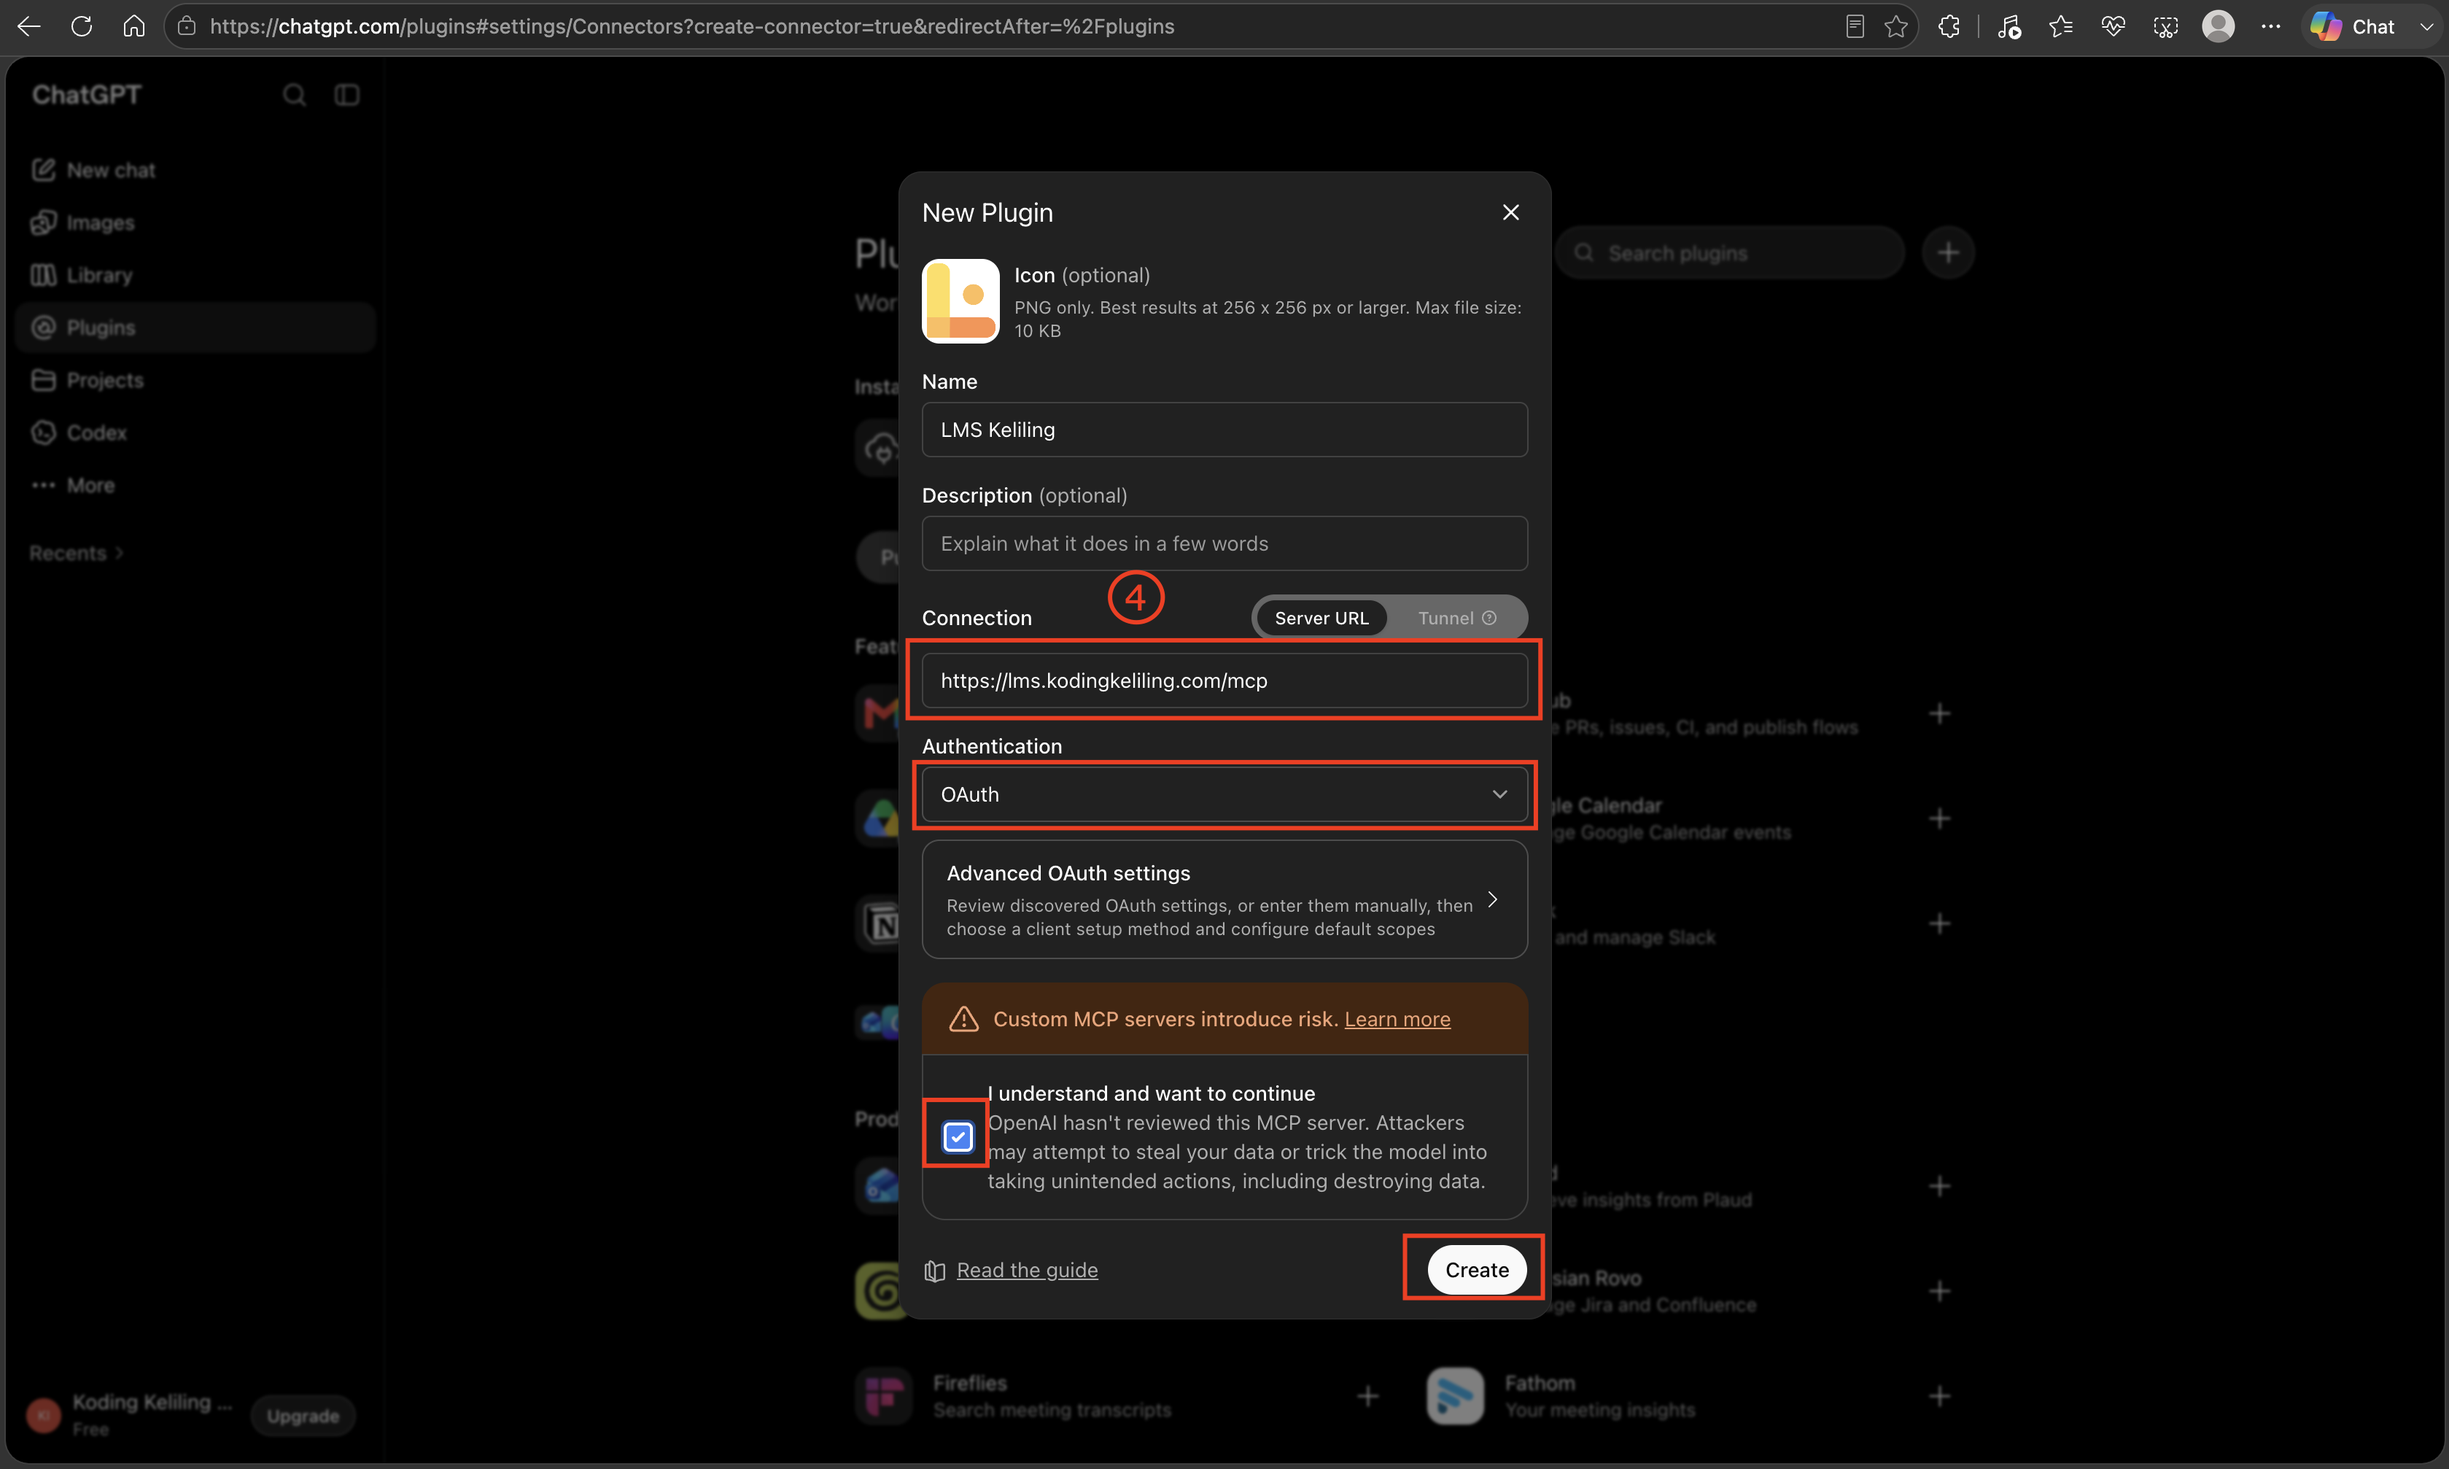
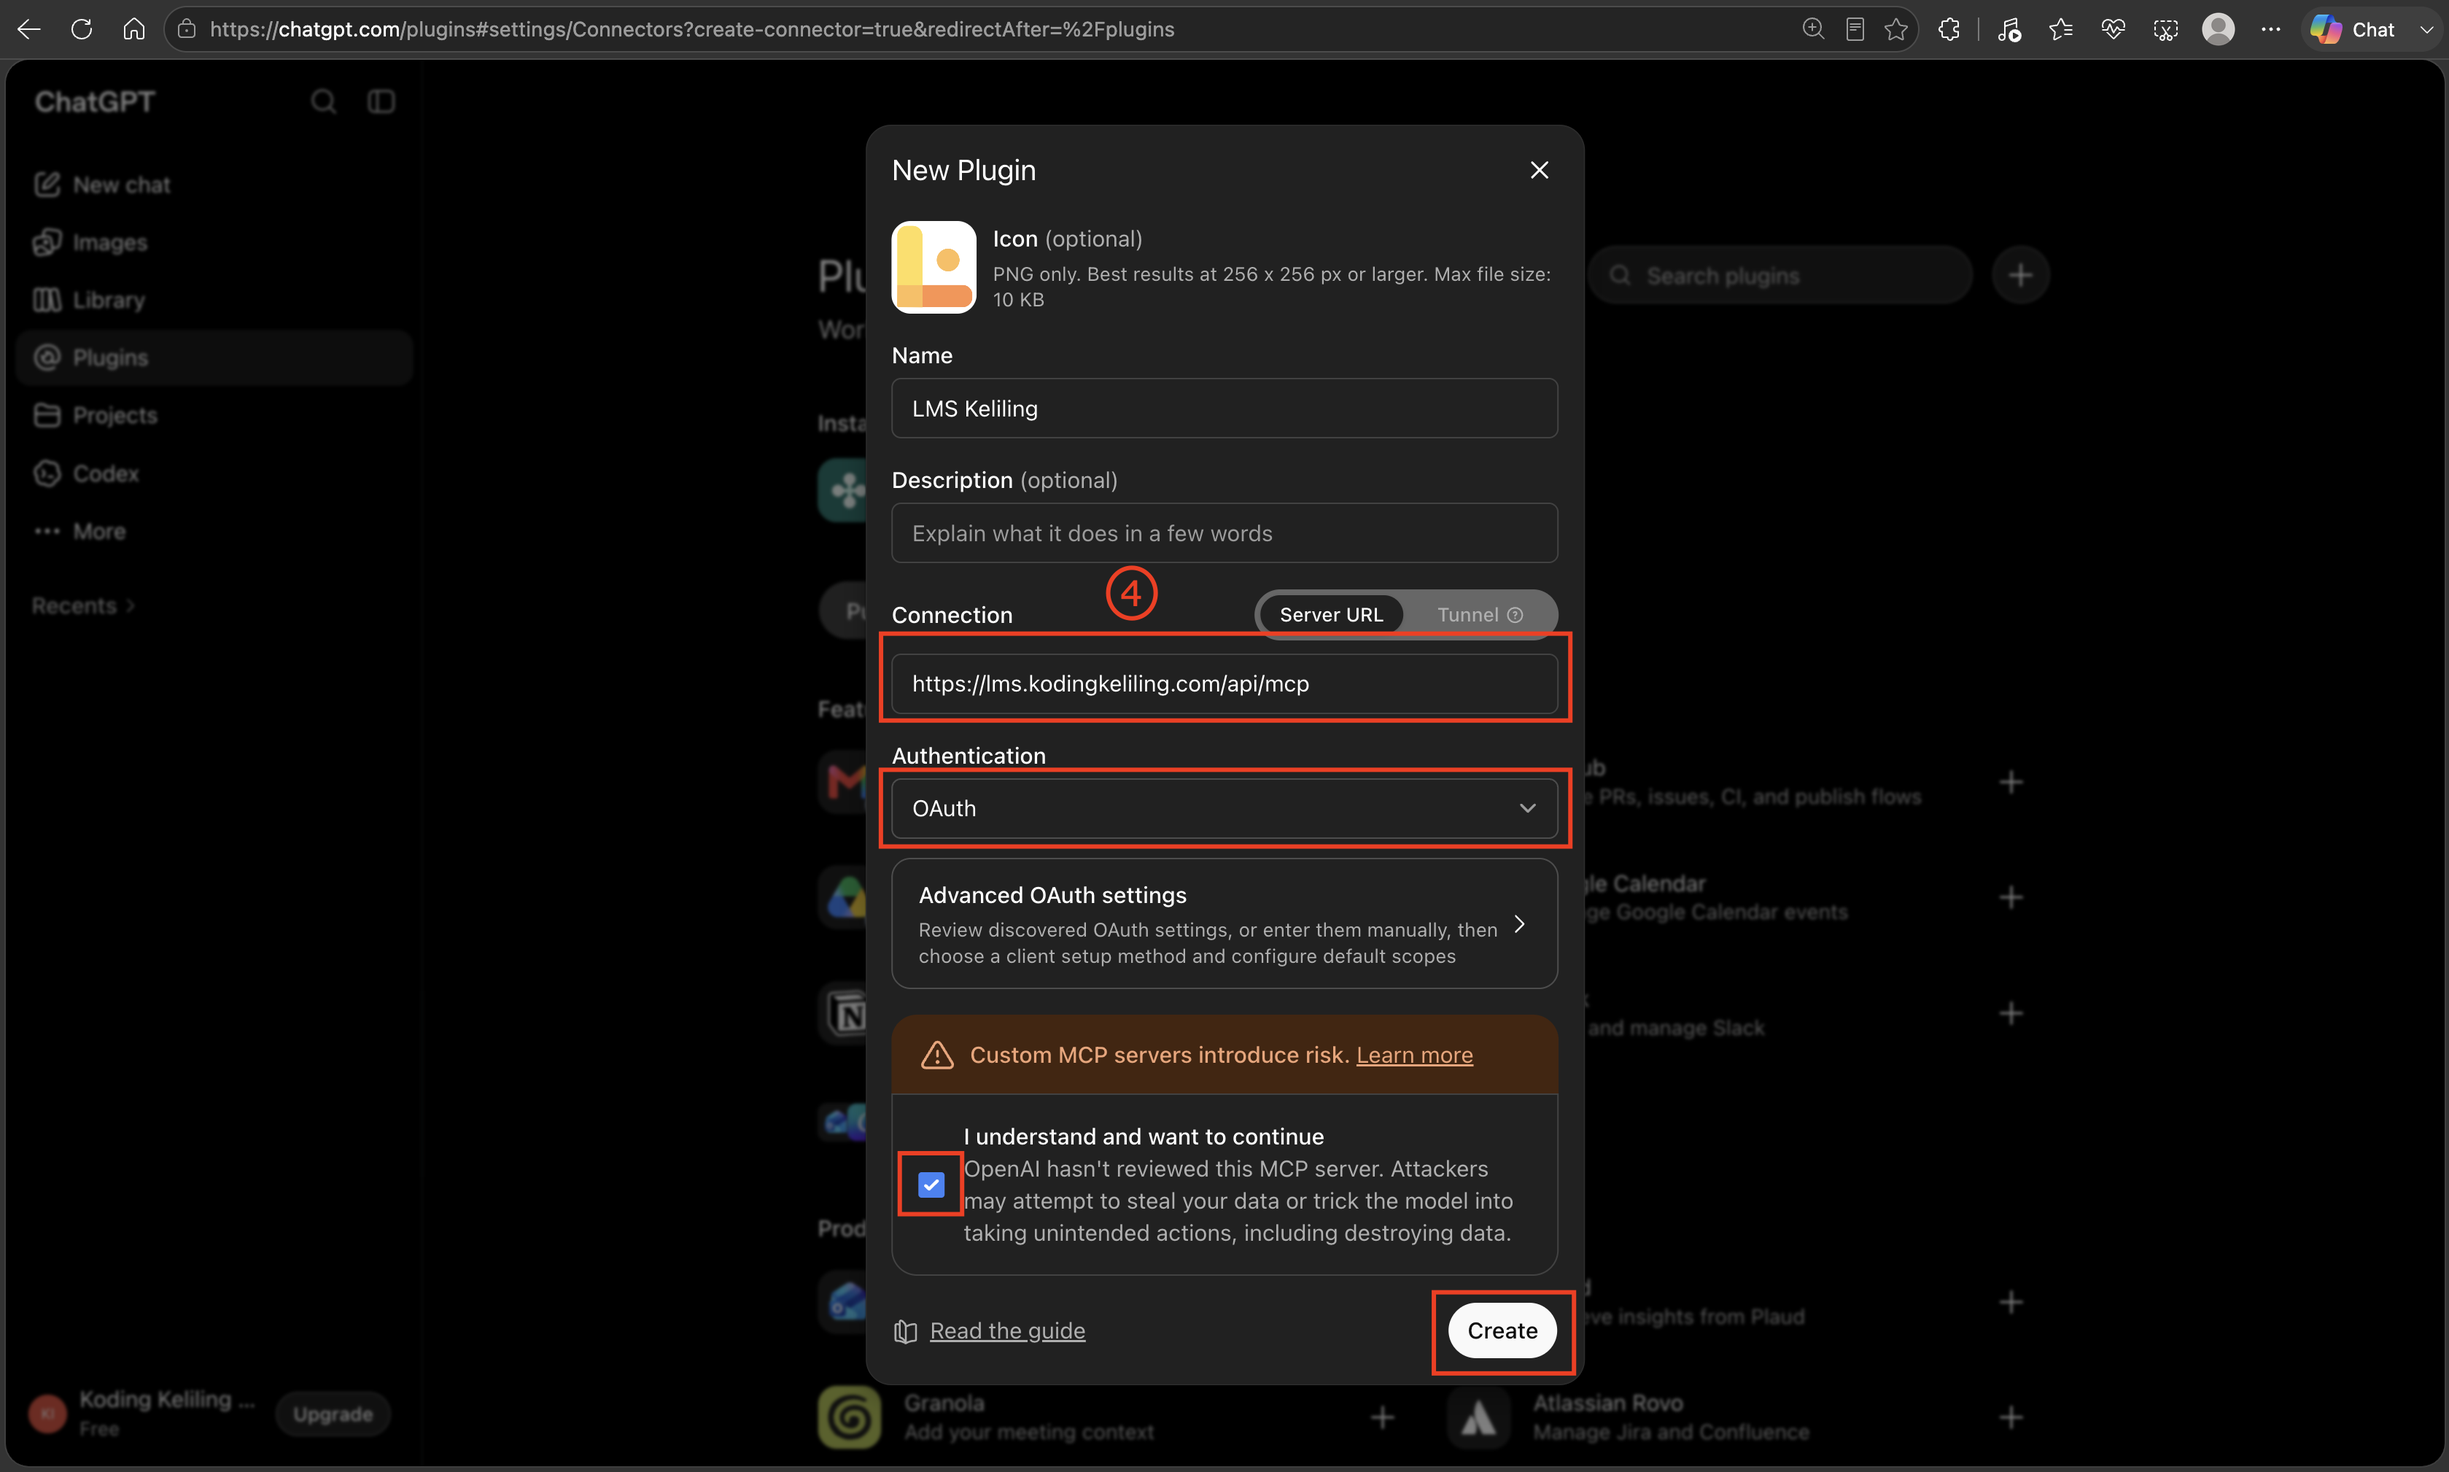
fix: omit client_secret from OAuth registration response to comply with Pydantic requirements and update guide assets

diff --git a/src/app/api/oauth/register/route.ts b/src/app/api/oauth/register/route.ts
@@ -20,11 +20,11 @@ export async function POST(req: NextRequest) {
         : [];
 
     // RFC 7591 §3.2.1 — client registration response
+    // NOTE: client_secret must be OMITTED (not null) for public clients.
+    // Claude and GPT use Pydantic which rejects null as an invalid string.
     const response = NextResponse.json(
         {
             client_id: "lms-keliling-mcp-client",
-            // null (not undefined) so it appears in the JSON response
-            client_secret: null,
             client_id_issued_at: Math.floor(Date.now() / 1000),
             client_name: body.client_name ?? "LMS Keliling MCP Client",
             redirect_uris: redirectUris,
@@ -32,7 +32,6 @@ export async function POST(req: NextRequest) {
             grant_types: ["authorization_code", "refresh_token"],
             response_types: ["code"],
             scope: "openid profile email mcp",
-            // Optional fields Claude / GPT may look for
             application_type: "web",
             subject_type: "public"
         },
